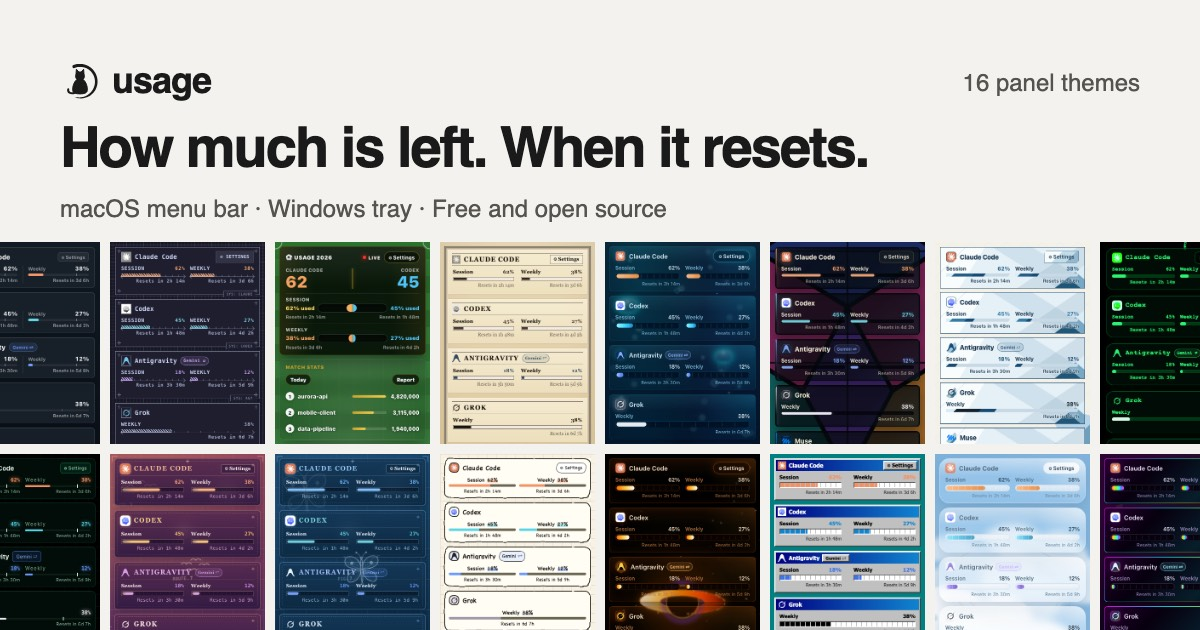
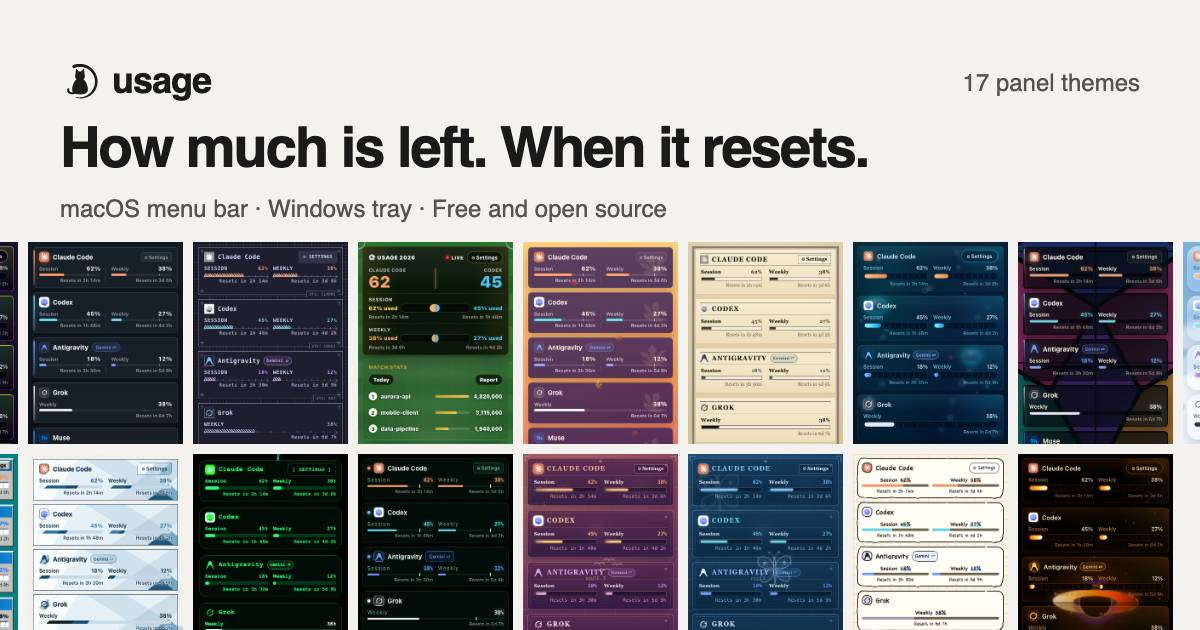
docs(site): 17-theme share image with Maple Dusk
The og-image catalog said "16 panel themes" and had no slot for a 17th.
It now uses a 9-column grid with Maple Dusk in the middle of the top row,
and the og:image / twitter:image cache-busting query moves to v=20261120.

diff --git a/docs/ja/index.html b/docs/ja/index.html
@@ -9,13 +9,13 @@
 <meta name="description" data-i18n-attr="content:meta_desc" content="macOS メニューバーと Windows システムトレイで Claude Code、Codex、Antigravity、Grok CLI、Muse Code のクォータ、トークン使用量、コストを監視。HTML レポート、17 種テーマ、AGPL-3.0。" />
 <meta property="og:title" content="usage — Claude Code、Codex、Antigravity、Grok、Muse のクォータをメニューバーに固定" />
 <meta property="og:description" content="macOS メニューバーと Windows システムトレイで Claude Code、Codex、Antigravity、Grok CLI、Muse Code のクォータ、トークン使用量、コストを監視。HTML レポート、17 種テーマ、AGPL-3.0。" />
-<meta property="og:image" content="https://aqua5230.github.io/usage/og-image.jpg?v=20261023" />
+<meta property="og:image" content="https://aqua5230.github.io/usage/og-image.jpg?v=20261120" />
 <meta property="og:image:width" content="1200" />
 <meta property="og:image:height" content="630" />
 <meta property="og:url" content="https://aqua5230.github.io/usage/ja/" />
 <meta property="og:type" content="website" />
 <meta name="twitter:card" content="summary_large_image" />
-<meta name="twitter:image" content="https://aqua5230.github.io/usage/og-image.jpg?v=20261023" />
+<meta name="twitter:image" content="https://aqua5230.github.io/usage/og-image.jpg?v=20261120" />
 <link rel="icon" type="image/png" sizes="32x32" href="../favicon-32.png" />
 <link rel="apple-touch-icon" href="../apple-touch-icon.png" />
 <link rel="canonical" href="https://aqua5230.github.io/usage/ja/" />

diff --git a/docs/ko/index.html b/docs/ko/index.html
@@ -9,13 +9,13 @@
 <meta name="description" data-i18n-attr="content:meta_desc" content="macOS 메뉴 바와 Windows 시스템 트레이에서 Claude Code, Codex, Antigravity, Grok CLI, Muse Code의 한도, 토큰 사용량, 비용을 모니터링. HTML 보고서, 17가지 테마, AGPL-3.0." />
 <meta property="og:title" content="usage — Claude Code, Codex, Antigravity, Grok, Muse의 한도를 메뉴 바에 고정" />
 <meta property="og:description" content="macOS 메뉴 바와 Windows 시스템 트레이에서 Claude Code, Codex, Antigravity, Grok CLI, Muse Code의 한도, 토큰 사용량, 비용을 모니터링. HTML 보고서, 17가지 테마, AGPL-3.0." />
-<meta property="og:image" content="https://aqua5230.github.io/usage/og-image.jpg?v=20261023" />
+<meta property="og:image" content="https://aqua5230.github.io/usage/og-image.jpg?v=20261120" />
 <meta property="og:image:width" content="1200" />
 <meta property="og:image:height" content="630" />
 <meta property="og:url" content="https://aqua5230.github.io/usage/ko/" />
 <meta property="og:type" content="website" />
 <meta name="twitter:card" content="summary_large_image" />
-<meta name="twitter:image" content="https://aqua5230.github.io/usage/og-image.jpg?v=20261023" />
+<meta name="twitter:image" content="https://aqua5230.github.io/usage/og-image.jpg?v=20261120" />
 <link rel="icon" type="image/png" sizes="32x32" href="../favicon-32.png" />
 <link rel="apple-touch-icon" href="../apple-touch-icon.png" />
 <link rel="canonical" href="https://aqua5230.github.io/usage/ko/" />

diff --git a/docs/zh-CN/index.html b/docs/zh-CN/index.html
@@ -9,13 +9,13 @@
 <meta name="description" data-i18n-attr="content:meta_desc" content="macOS menu bar 与 Windows 系统托盘工具，监控 Claude Code、Codex、Antigravity、Grok CLI 和 Muse Code 的额度、token 用量与花费。HTML 报告、17 款主题、AGPL-3.0。" />
 <meta property="og:title" content="usage — 把 Claude Code、Codex、Antigravity、Grok 和 Muse 的用量钉在 menu bar" />
 <meta property="og:description" content="macOS menu bar 与 Windows 系统托盘工具，监控 Claude Code、Codex、Antigravity、Grok CLI 和 Muse Code 的额度、token 用量与花费。HTML 报告、17 款主题、AGPL-3.0。" />
-<meta property="og:image" content="https://aqua5230.github.io/usage/og-image.jpg?v=20261023" />
+<meta property="og:image" content="https://aqua5230.github.io/usage/og-image.jpg?v=20261120" />
 <meta property="og:image:width" content="1200" />
 <meta property="og:image:height" content="630" />
 <meta property="og:url" content="https://aqua5230.github.io/usage/zh-CN/" />
 <meta property="og:type" content="website" />
 <meta name="twitter:card" content="summary_large_image" />
-<meta name="twitter:image" content="https://aqua5230.github.io/usage/og-image.jpg?v=20261023" />
+<meta name="twitter:image" content="https://aqua5230.github.io/usage/og-image.jpg?v=20261120" />
 <link rel="icon" type="image/png" sizes="32x32" href="../favicon-32.png" />
 <link rel="apple-touch-icon" href="../apple-touch-icon.png" />
 <link rel="canonical" href="https://aqua5230.github.io/usage/zh-CN/" />

diff --git a/docs/zh-TW/index.html b/docs/zh-TW/index.html
@@ -9,13 +9,13 @@
 <meta name="description" data-i18n-attr="content:meta_desc" content="macOS menu bar 與 Windows 系統匣工具，監控 Claude Code、Codex、Antigravity、Grok CLI 和 Muse Code 的配額、token 用量與成本。HTML 報告、17 款主題、AGPL-3.0。" />
 <meta property="og:title" content="usage — 把 Claude Code、Codex、Antigravity、Grok 和 Muse 的用量釘在 menu bar" />
 <meta property="og:description" content="macOS menu bar 與 Windows 系統匣工具，監控 Claude Code、Codex、Antigravity、Grok CLI 和 Muse Code 的配額、token 用量與成本。HTML 報告、17 款主題、AGPL-3.0。" />
-<meta property="og:image" content="https://aqua5230.github.io/usage/og-image.jpg?v=20261023" />
+<meta property="og:image" content="https://aqua5230.github.io/usage/og-image.jpg?v=20261120" />
 <meta property="og:image:width" content="1200" />
 <meta property="og:image:height" content="630" />
 <meta property="og:url" content="https://aqua5230.github.io/usage/zh-TW/" />
 <meta property="og:type" content="website" />
 <meta name="twitter:card" content="summary_large_image" />
-<meta name="twitter:image" content="https://aqua5230.github.io/usage/og-image.jpg?v=20261023" />
+<meta name="twitter:image" content="https://aqua5230.github.io/usage/og-image.jpg?v=20261120" />
 <link rel="icon" type="image/png" sizes="32x32" href="../favicon-32.png" />
 <link rel="apple-touch-icon" href="../apple-touch-icon.png" />
 <link rel="canonical" href="https://aqua5230.github.io/usage/zh-TW/" />

diff --git a/docs/index.html b/docs/index.html
@@ -8,13 +8,13 @@
 <meta name="description" data-i18n-attr="content:meta_desc" content="macOS menu bar and Windows tray app for Claude Code, Codex, Antigravity, Grok, and Muse Code quota, tokens, and cost." />
 <meta property="og:title" content="usage — Claude Code, Codex, Antigravity, Grok &amp; Muse quota tracker" />
 <meta property="og:description" content="macOS menu bar and Windows tray app for Claude Code, Codex, Antigravity, Grok, and Muse Code quota, tokens, and cost." />
-<meta property="og:image" content="https://aqua5230.github.io/usage/og-image.jpg?v=20261023" />
+<meta property="og:image" content="https://aqua5230.github.io/usage/og-image.jpg?v=20261120" />
 <meta property="og:image:width" content="1200" />
 <meta property="og:image:height" content="630" />
 <meta property="og:url" content="https://aqua5230.github.io/usage/" />
 <meta property="og:type" content="website" />
 <meta name="twitter:card" content="summary_large_image" />
-<meta name="twitter:image" content="https://aqua5230.github.io/usage/og-image.jpg?v=20261023" />
+<meta name="twitter:image" content="https://aqua5230.github.io/usage/og-image.jpg?v=20261120" />
 <link rel="icon" type="image/png" sizes="32x32" href="favicon-32.png" />
 <link rel="apple-touch-icon" href="apple-touch-icon.png" />
 <link rel="canonical" href="https://aqua5230.github.io/usage/" />
